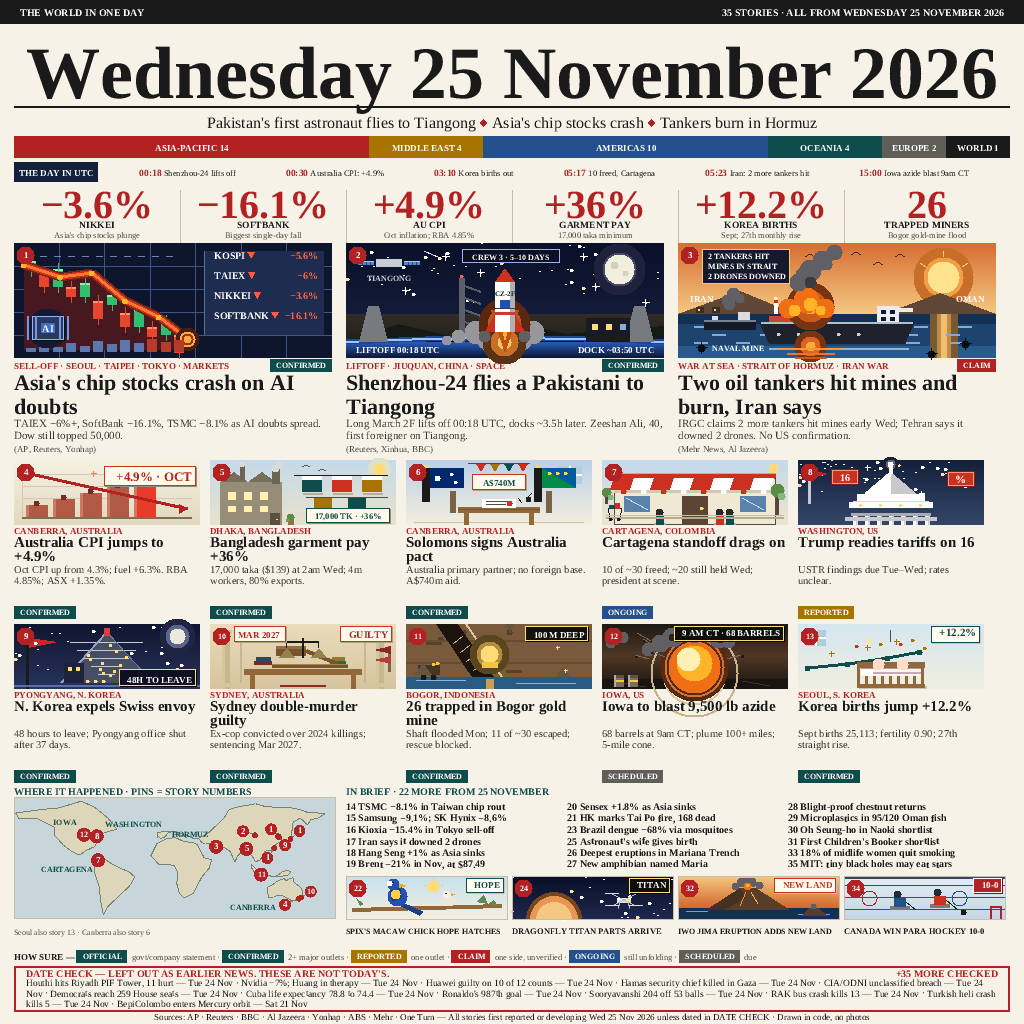
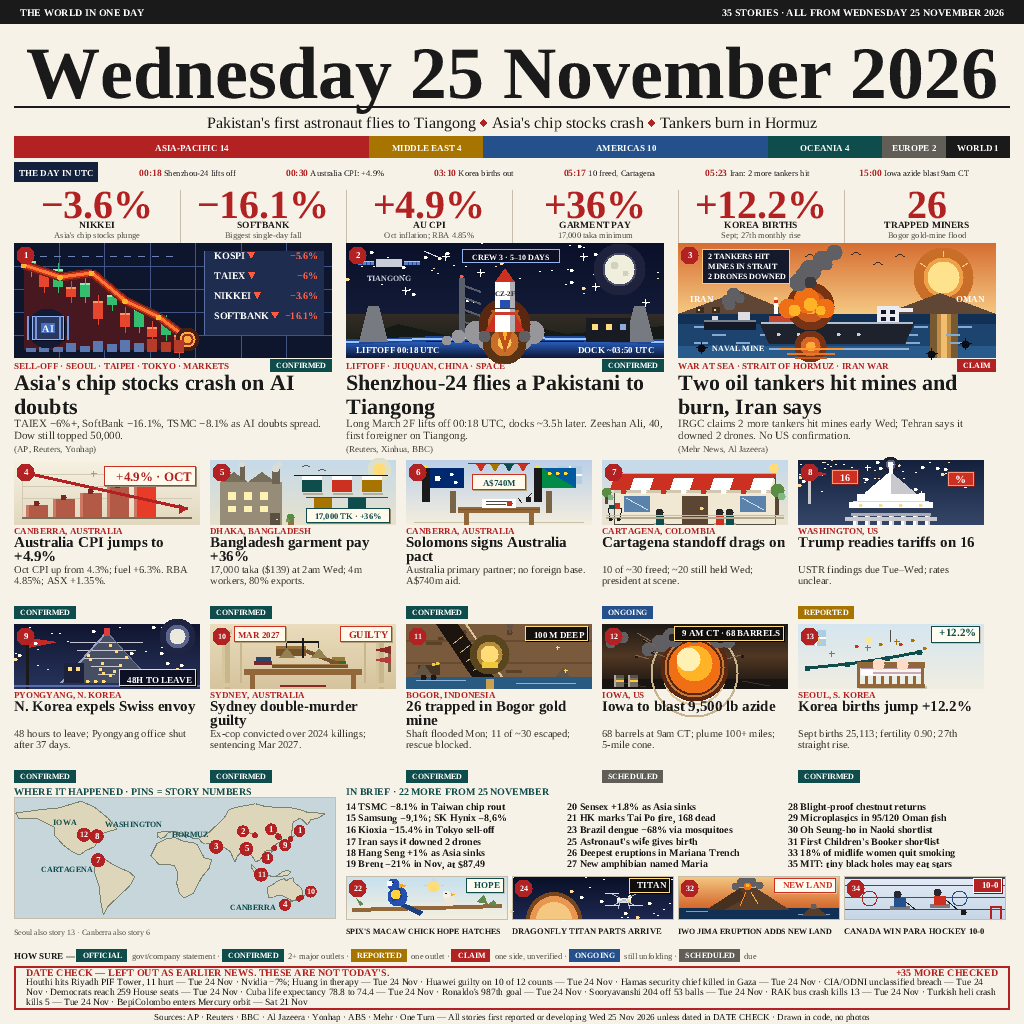
v2.9-fix: bottom stack rebalance — legend row up 1px (pills 949), DATE CHECK 46->44 tall + prose pitch 10.5->10 + header/prose up 1px; gaps tile->legend 15px / legend->DATE CHECK 4px / DATE CHECK->footer 4px, footer unchanged (ink bottom 1021); map note 10px above / 12px below, Card 5/13 deck->pill 

Changed region(s): [[0.0, 0.9062, 0.9688, 1.0]]

diff --git a/main.py b/main.py
@@ -2160,7 +2160,7 @@ def draw_brief(cv):
         y = 810 + row * 11.5
         cv.text(x, y, "%d %s" % (num, item), 10, True, INK)
     # 4 drawn tiles in a row: scene + number badge + label below.
-    # Strip y 876..940; HOW SURE legend stays at 945.
+    # Strip y 876..940; HOW SURE legend at 949 (v2.9-fix).
     for t, (idx, label, key, num) in enumerate(ALSO_TILES):
         x = 346 + t * 166
         SCENES[key](cv, x, 876, 162, 44)
@@ -2171,8 +2171,13 @@ def draw_brief(cv):
 
 
 def draw_legend(cv):
+    # v2.9-fix: whole row up 1px (pills 949, text 959) — buys 1px for the
+    # legend->DATE CHECK gap without touching tiles (caption gap stays ~15px)
+    # or the map note (still 12px below it). Pill height NOT trimmed: the
+    # expl-text descenders reach the same row as the pill fill, so trimming
+    # the fill alone would not move the measured legend bottom.
     x = M
-    cv.text(x, 960, "HOW SURE \u2014 ", 9, True, INK)
+    cv.text(x, 959, "HOW SURE \u2014 ", 9, True, INK)
     x += text_width("HOW SURE \u2014 ", 9, True)
     parts = [("OFFICIAL", "govt/company statement"),
              ("CONFIRMED", "2+ major outlets"),
@@ -2181,28 +2186,29 @@ def draw_legend(cv):
              ("ONGOING", "still unfolding"),
              ("SCHEDULED", "due")]
     for j, (label, expl) in enumerate(parts):
-        w = pill(cv, x, 950, label, 8)
+        w = pill(cv, x, 949, label, 8)
         x += w + 4
-        cv.text(x, 960, expl, 8.5, False, INK_SOFT)
+        cv.text(x, 959, expl, 8.5, False, INK_SOFT)
         x += text_width(expl, 8.5, False)
         if j < len(parts) - 1:
-            cv.text(x, 960, " \u00b7 ", 8.5, False, INK_SOFT)
+            cv.text(x, 959, " \u00b7 ", 8.5, False, INK_SOFT)
             x += text_width(" \u00b7 ", 8.5, False)
 
 
 def draw_datecheck(cv):
-    # v2.9: box shifted +5 (966..1012, 46 tall) so the tile-label row
-    # above HOW SURE gains breathing room; prose pitch 11 -> 10.5
-    # keeps 3 lines inside the shorter box.
-    rect_outline(cv, M, 966, CW, 46, RED, 2)
-    cv.text(26, 977, "DATE CHECK \u2014 LEFT OUT AS EARLIER NEWS. "
+    # v2.9-fix: box 46 -> 44 tall (966..1009) + prose pitch 10.5 -> 10
+    # + header/prose up 1px. Frees 2px for the DATE CHECK->footer gap
+    # (now 4px) while the interior keeps 1px clearance top and bottom
+    # (header ink 969, last prose ink ~1006, borders 966-967 / 1008-1009).
+    rect_outline(cv, M, 966, CW, 44, RED, 2)
+    cv.text(26, 976, "DATE CHECK \u2014 LEFT OUT AS EARLIER NEWS. "
             "THESE ARE NOT TODAY'S.", 10, True, RED)
-    cv.text(998, 977, "+35 MORE CHECKED", 10, True, RED, align="right")
+    cv.text(998, 976, "+35 MORE CHECKED", 10, True, RED, align="right")
     # same 12 items, same wording, reflowed as flowing prose (3 lines)
     prose = " \u00b7 ".join(DATECHECK)
     lines = wrap_text(prose, 9.5, False, 972)
     for k, ln in enumerate(lines):
-        cv.text(26, 986 + k * 10.5, ln, 9.5, False, INK)
+        cv.text(26, 985 + k * 10, ln, 9.5, False, INK)
 
 
 def draw_footer(cv):
